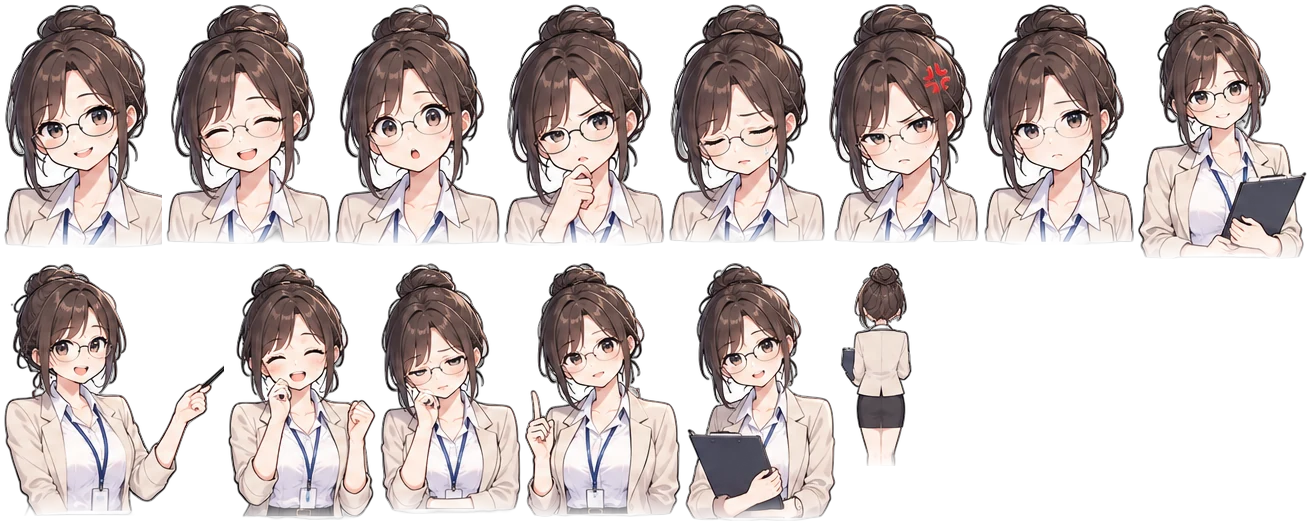
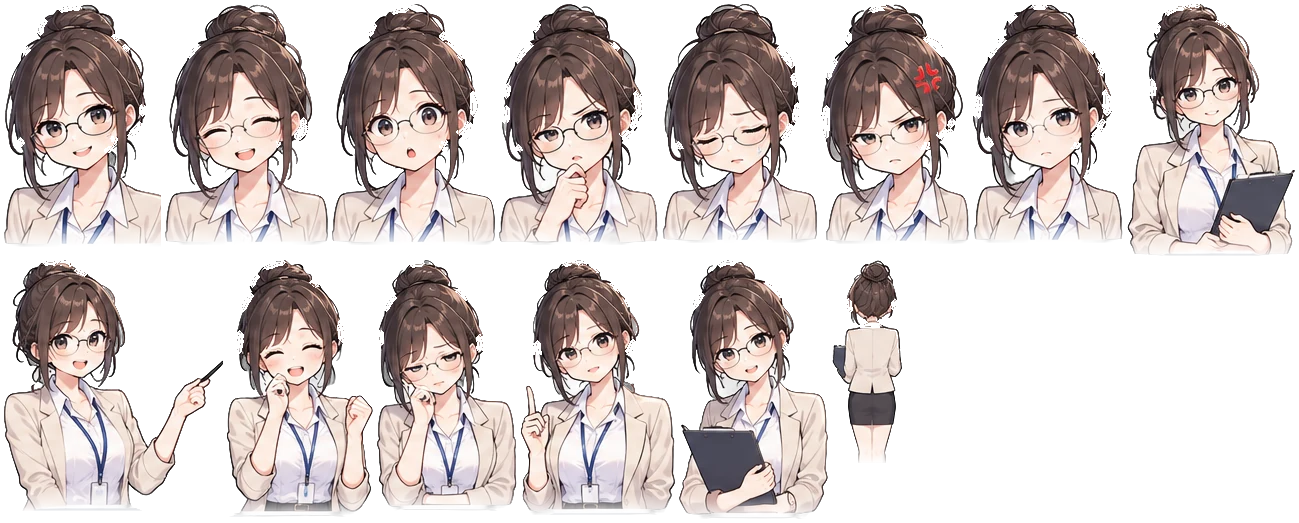
두뇌풀가동: 선생님 누끼 다시(isnet-anime, 흰 뭉치·흰 테 제거) + 모든 화면 상반신 자세 + 교탁 윗선을 그림 아래 끝에 고정, art.js?v=6·teacher v4 (사장님 2026-09-21 "누끼 제대로", "하얀 부분 없애", "목만 나오면 무섭다", "올려")

diff --git a/games/mini/fullbrain/play/js/art.js b/games/mini/fullbrain/play/js/art.js
@@ -115,17 +115,17 @@
   }
 
   // ---------------------------------------------------------------- 선생님(스프라이트 시트 assets/teacher.png, 좌표는 js/teacher.js)
-  const TIMG = new Image(); TIMG.src = 'assets/teacher.webp?v=3';
+  const TIMG = new Image(); TIMG.src = 'assets/teacher.webp?v=4';
   const TF = (window.FB_TEACHER && window.FB_TEACHER.frames) || {};
   const BUST_H = 250;                                             // 상반신 칸들의 기준 높이 — 칸마다 크기가 달라도 같은 배율로 그린다
   let prevName = '', curName = '', fadeT = 1;
   // 표정은 세 가지만 바뀐다(사장님 9/21 "정신없다"): 문제 낼 때 point(지시봉) · 맞췄을 때 cheer · 틀렸을 때 wrong
   function frameFor(S) {
     const m = S.mood, mode = S.mode;
-    if (mode === 'title') return 'idle';                         // 제목도 반신(사장님 9/21)
+    if (mode === 'title') return 'explain';                      // 제목: 클립보드 든 상반신. 얼굴만 있는 칸은 교탁 위로 목만 나와 무섭다(사장님 9/21)
     if (mode === 'ending') return 'cheer';
-    if (mode === 'over') return 'sad';
-    if (mode === 'clear') return 'smile';
+    if (mode === 'over') return 'wrong';
+    if (mode === 'clear') return 'cheer';
     if (m === 'happy') return 'cheer';
     if (m === 'dizzy') return 'wrong';
     return 'point';
@@ -180,7 +180,7 @@
     }
     // 상반신: 얼굴 너비를 같게(칸마다 같은 크기), 얼굴 가운데를 칸의 38% 높이에. 쓰는 칸들 전부가 칸 안에 들어가는 얼굴 크기를 고른다
     let FW = Math.min(rc.h * (S.mode === 'title' ? 0.34 : 0.30), rc.w * 0.30);
-    for (const nm of (S.mode === 'title' ? ['idle'] : ['point', 'cheer', 'wrong', 'smile', 'sad'])) {   // 제목 화면은 idle 한 칸만 맞추면 되니 더 크게
+    for (const nm of ['point', 'cheer', 'wrong', 'explain']) {   // 제목 화면은 idle 한 칸만 맞추면 되니 더 크게
       const g = TF[nm]; if (!g) continue;
       FW = Math.min(FW, rc.h * 0.60 * g[6] / Math.max(1, g[3] - g[5]),                       // 얼굴 아래로 칸 높이의 60% 안
                        rc.w * 0.48 * g[6] / Math.max(1, Math.max(g[4], g[2] - g[4])));       // 좌우로 칸 너비의 절반 안
@@ -198,7 +198,11 @@
     c.restore();
     // 교탁: 얼굴 아래 2.2배 높이(허리)부터 칸 바닥까지, 너비는 얼굴의 3.2배
     const lb = Math.min(S.H - 8, rc.y + rc.h + FW * 0.2);
-    drawLectern(c, cx, Math.min(fyPos + FW * 1.48, lb - FW * 0.75), lb, FW * 2.5);   // 사장님 9/21 "더 아래로"   // 칸이 낮아도(폰 세로) 교탁 높이는 얼굴 너비만큼은 된다
+    // 교탁 윗선 = 지금 쓰는 자세들 중 가장 긴 그림의 아래 끝에서 얼굴 너비의 0.32 위(흐려지는 24px 를 덮는다). 제목은 얼굴 칸(idle)이라 더 위로 온다
+    let bodyBot = fyPos;
+    // 제목·클리어·게임오버·엔딩은 그 화면의 그림 하나 기준, 플레이 중엔 세 자세 중 가장 긴 것 기준(교탁이 자세마다 흔들리지 않게)
+    for (const nm of ['point', 'cheer', 'wrong', 'explain']) { const g = TF[nm]; if (g) bodyBot = Math.max(bodyBot, fyPos + (g[3] - g[5]) * FW / g[6]); }
+    drawLectern(c, cx, Math.min(bodyBot - FW * 0.32, lb - FW * 0.75), lb, FW * 2.5);
     return { cx, cy: fyPos + bob - FW * 0.6, r: FW * 0.6 };
   }
 

diff --git a/games/mini/fullbrain/play/js/teacher.js b/games/mini/fullbrain/play/js/teacher.js
@@ -1,1 +1,1 @@
-window.FB_TEACHER = {"w": 1311, "h": 525, "frames": {"idle": [4, 4, 158, 244, 71, 78, 125], "smile": [166, 4, 165, 240, 77, 73, 117], "surprise": [335, 4, 165, 242, 75, 75, 118], "think": [504, 4, 161, 242, 72, 74, 119], "shy": [669, 4, 156, 239, 71, 73, 117], "angry": [829, 4, 150, 239, 64, 73, 117], "sad": [983, 4, 151, 241, 66, 70, 112], "grade": [1138, 4, 169, 255, 62, 64, 102], "point": [4, 263, 220, 253, 54, 67, 105], "cheer": [228, 263, 148, 257, 55, 66, 104], "wrong": [380, 263, 141, 251, 45, 61, 97], "next": [525, 263, 156, 254, 53, 63, 101], "explain": [685, 263, 151, 258, 52, 64, 103], "back": [840, 263, 72, 203, 42, 32, 51]}};
+window.FB_TEACHER = {"w": 1299, "h": 523, "frames": {"idle": [4, 4, 157, 243, 72, 76, 121], "smile": [165, 4, 163, 241, 76, 73, 116], "surprise": [332, 4, 163, 241, 74, 79, 118], "think": [499, 4, 159, 241, 71, 74, 118], "shy": [662, 4, 155, 239, 71, 63, 103], "angry": [821, 4, 148, 240, 64, 70, 112], "sad": [973, 4, 150, 239, 66, 69, 111], "grade": [1127, 4, 168, 252, 63, 66, 102], "point": [4, 260, 219, 251, 54, 71, 107], "cheer": [227, 260, 146, 257, 56, 65, 99], "wrong": [377, 260, 140, 251, 43, 66, 99], "next": [521, 260, 154, 255, 53, 68, 103], "explain": [679, 260, 149, 259, 51, 68, 103], "back": [832, 260, 70, 203, 42, 31, 49]}};

diff --git a/games/mini/fullbrain/play/index.html b/games/mini/fullbrain/play/index.html
@@ -179,9 +179,9 @@ body.touch .ab small{display:none}
 <div class="panel" id="pause"><button class="btn" id="resume">▶</button></div>
 
 <script src="assets/game-home.js" data-top="6" data-left="6" data-fullscreen="1" defer></script>
-<script src="js/teacher.js?v=3"></script>
+<script src="js/teacher.js?v=4"></script>
 <script src="js/audio.js?v=1"></script>
-<script src="js/art.js?v=5"></script>
+<script src="js/art.js?v=6"></script>
 <script src="js/game.js?v=3"></script>
 <script src="/assets/visit.js?v=17" defer></script>
 <script src="/assets/game-events.js?v=2" defer></script>
